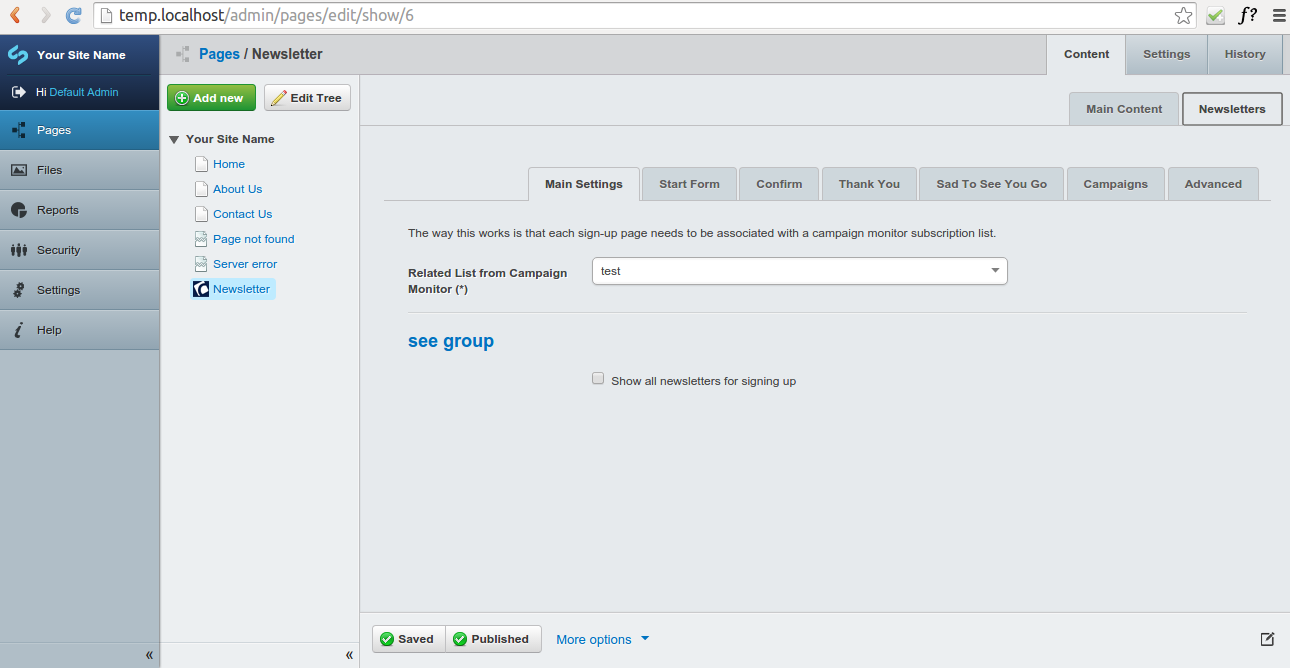
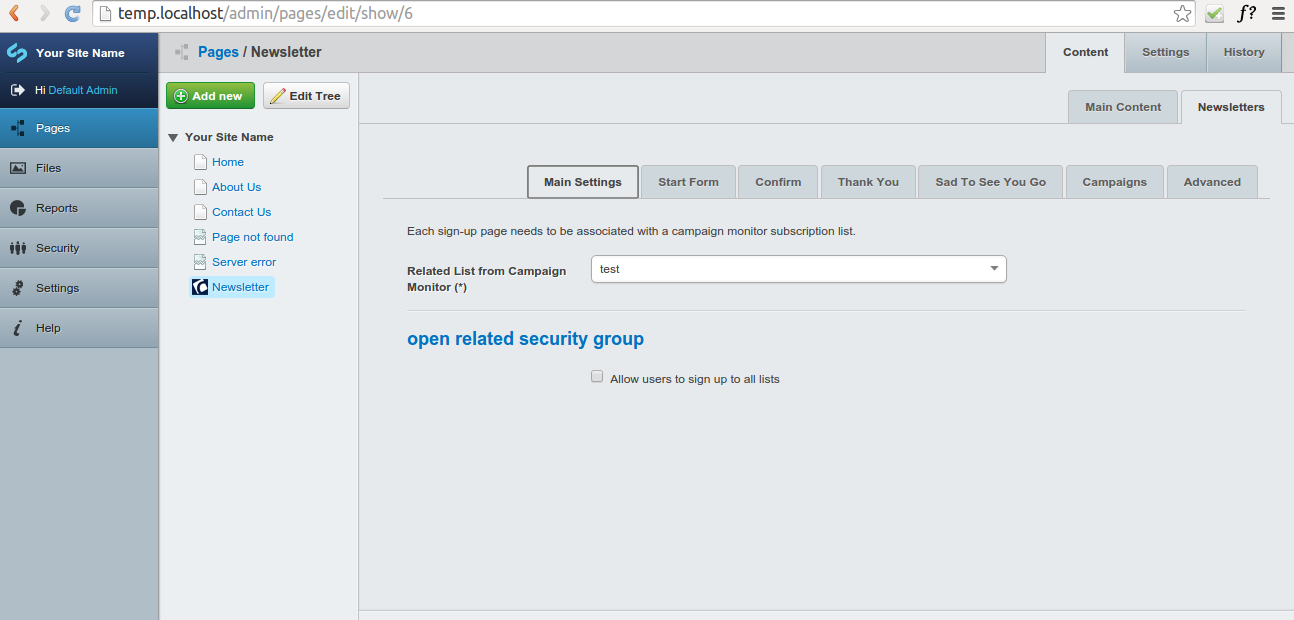
DOCUMENTATION

diff --git a/code/CampaignMonitorSignupPage.php b/code/CampaignMonitorSignupPage.php
@@ -111,7 +111,7 @@ class CampaignMonitorSignupPage extends Page {
 					new LiteralField('ListIDExplanation', '<p>Each sign-up page needs to be associated with a campaign monitor subscription list.</p>'),
 					new DropdownField('ListID', 'Related List from Campaign Monitor (*)', array(0 => "-- please select --") + $this->makeDropdownListFromLists()),
 					new LiteralField('GroupLink', $groupLink),
-					new CheckboxField('ShowAllNewsletterForSigningUp', 'Show all newsletters for signing up')
+					new CheckboxField('ShowAllNewsletterForSigningUp', 'Allow users to sign up to all lists')
 				),
 				new Tab('StartForm',
 					new LiteralField('StartFormExplanation', 'A start form is a form where people are just required to enter their email address and nothing else.  After completion they go through to another page (the actual CampaignMonitorSignUpPage) to complete all the details.'),

diff --git a/README.md b/README.md
@@ -4,9 +4,11 @@ Campaign Monitor Module
 Connects a Silverstripe Website with the Campaign Monitor
 API. Here are some examples:
 
- * ![Sign Up Page](docs/screenshots/SignupForm.png)
- * ![Quick Sign Up Form](docs/screenshots/QuickSignupForm.png)
- * ![Back-End](docs/screenshots/Backend.png)
+![Sign Up Page](docs/screenshots/SignupForm.png)
+
+![Quick Sign Up Form](docs/screenshots/QuickSignupForm.png)
+
+![Back-End](docs/screenshots/Backend.png)
 
 
 Developer
